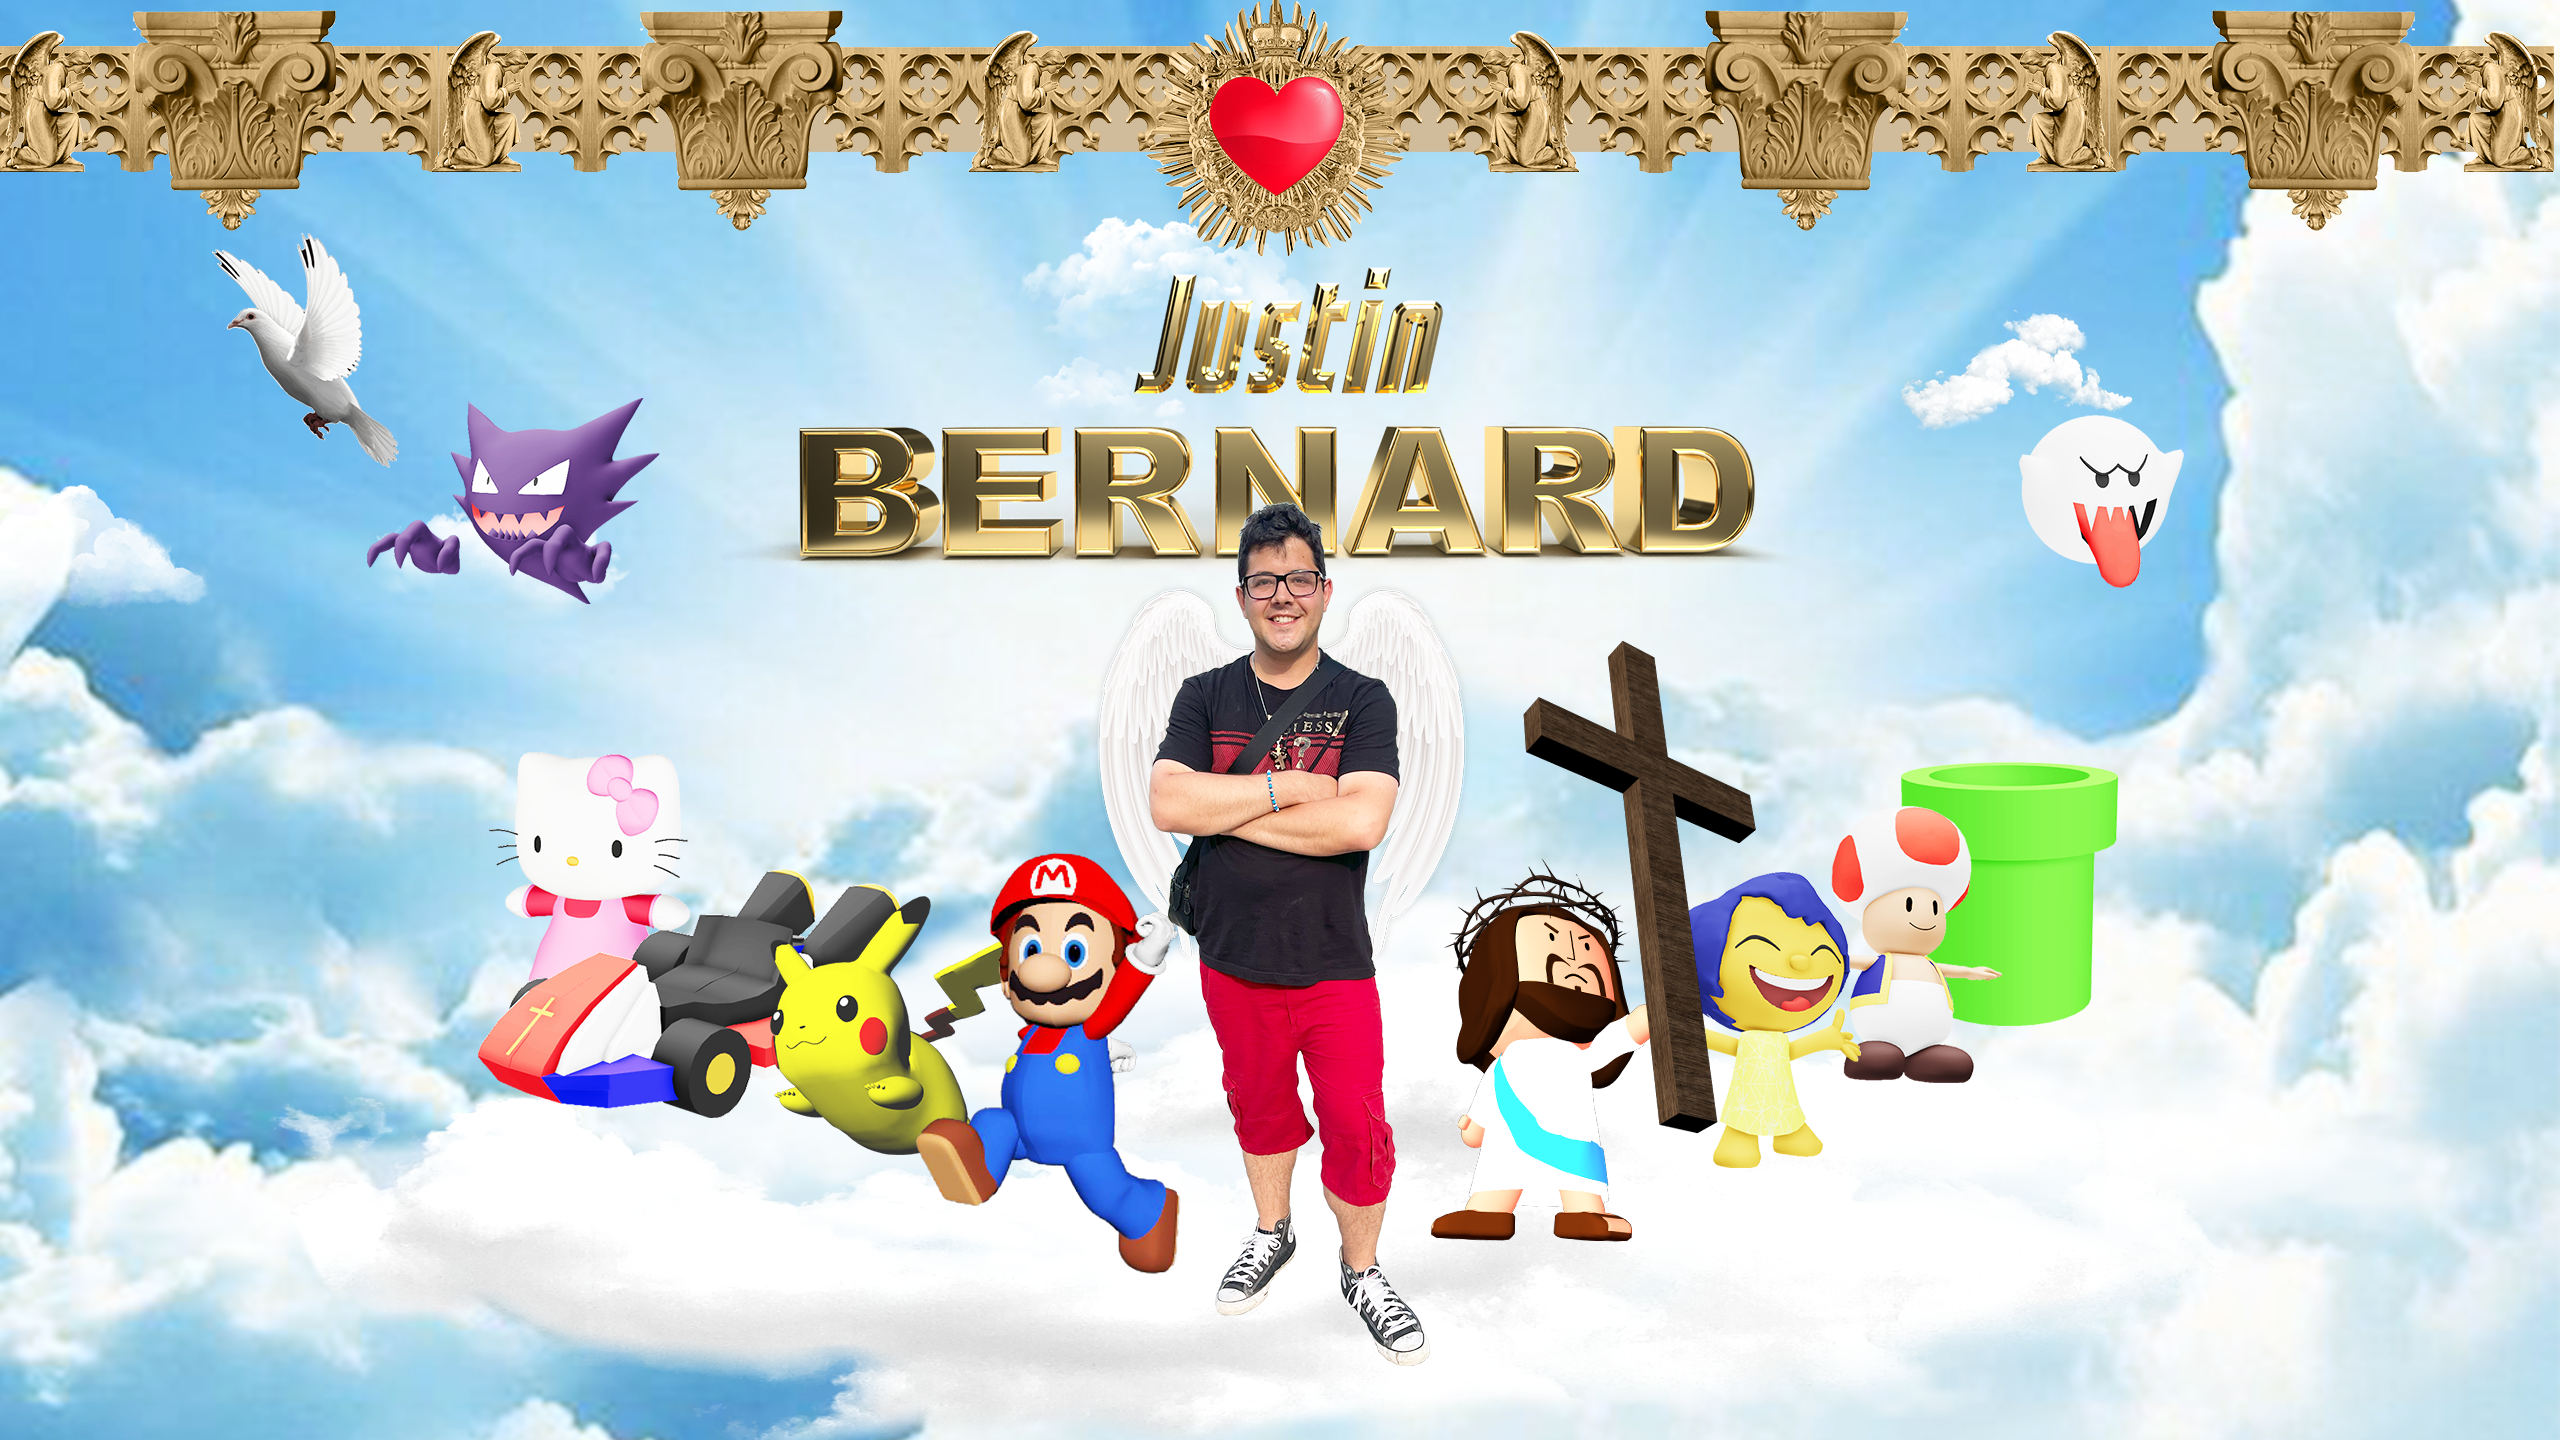
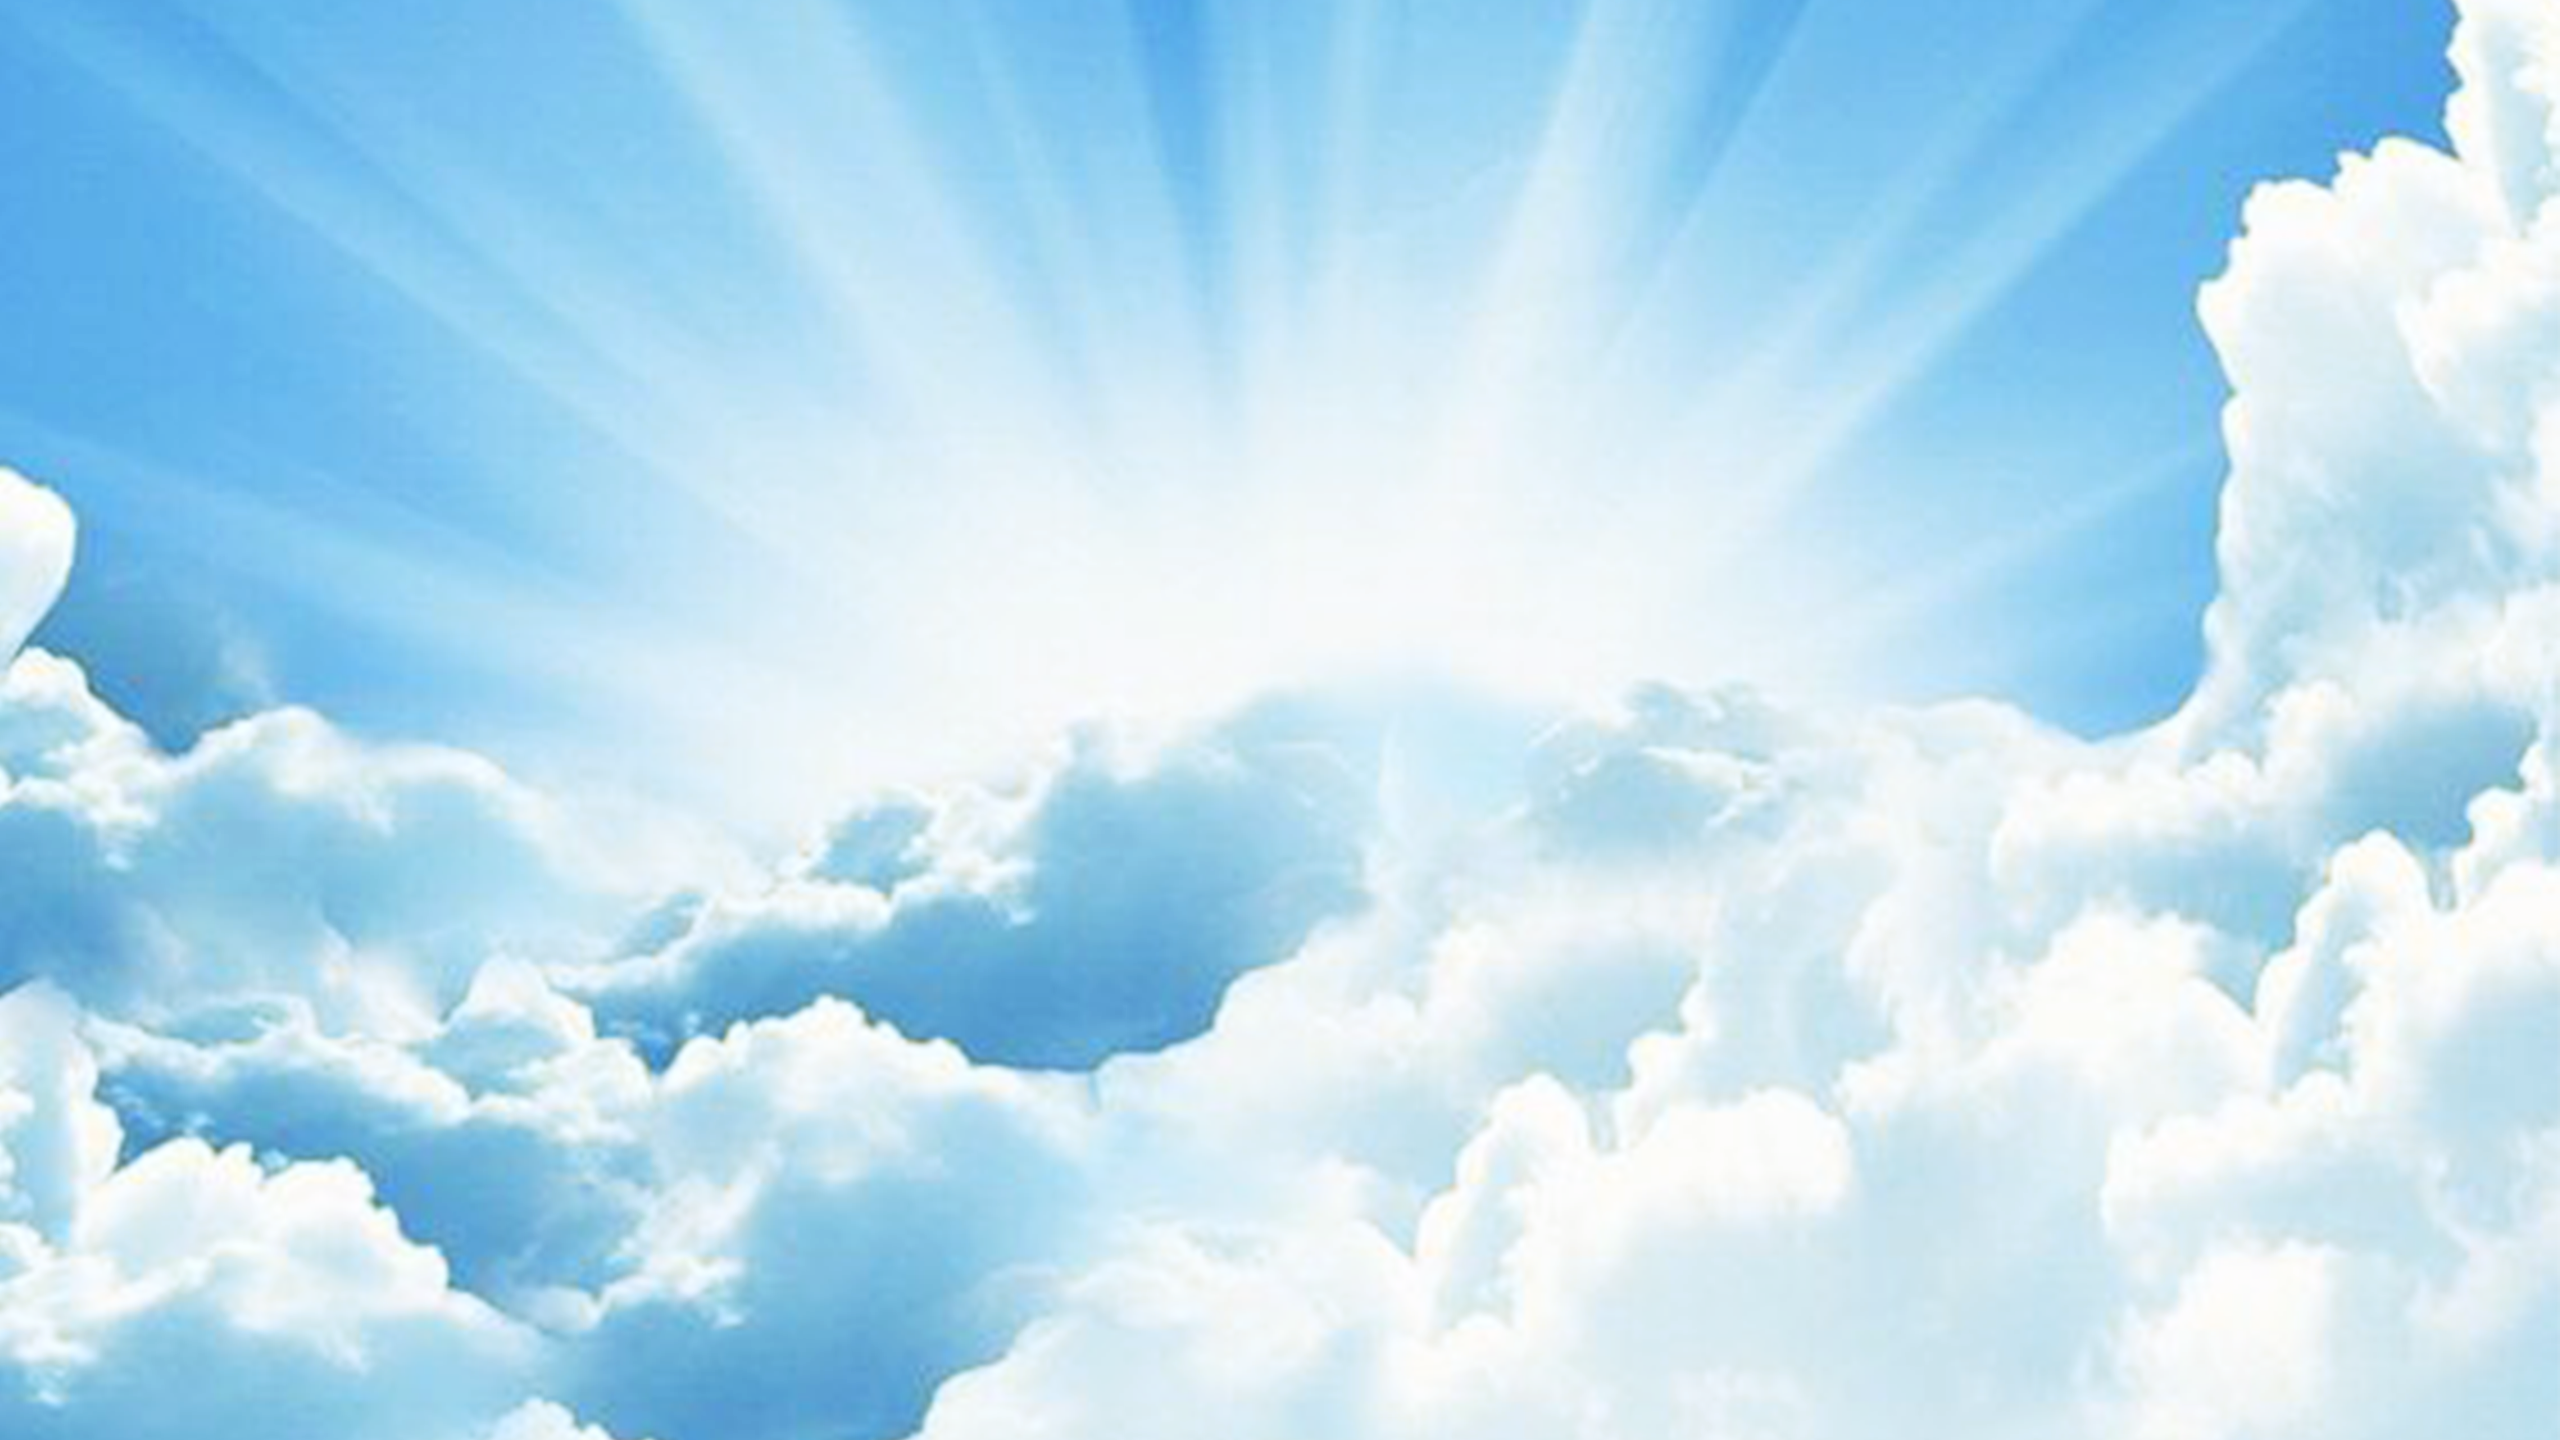
Set hero layers

diff --git a/src/components/NavBar.jsx b/src/components/NavBar.jsx
@@ -9,16 +9,6 @@ const Container = styled.div`
     right: 0;
     z-index: 2;
     transition: transform 0.3s ease, opacity 0.3s ease;
-
-    .visible {
-    transform: translateY(0);
-    opacity: 1;
-    }
-
-    .hidden {
-    transform: translateY(-100%);
-    opacity: 0;
-    }
 `
 
 const Image = styled.img`
@@ -35,7 +25,8 @@ const DarkBG = styled.div`
     height: 100%;
     background-color: rgba(0, 0, 0, 0.5);
     cursor: pointer;
-    `
+    transition: transform 0.3s ease, opacity 0.3s ease;
+`
 
 const MenuContainer = styled.div`
     position: fixed;
@@ -77,29 +68,33 @@ const MenuItems = styled.ul`
 function NavBar() {
     //FLAG
     const [menuEnabled, setMenuEnabled] = useState(false);
-
     const [prevScrollPos, setPrevScrollPos] = useState(0);
     const [visible, setVisible] = useState(true);
 
       
-      useEffect(() => {
-        window.addEventListener('scroll', handleScroll, true);
-        // Remove the event listener
-        return () => {
-            window.removeEventListener('scroll', handleScroll, true);
-        };
-    }, [menuEnabled]);
-    
-
     const handleScroll = () => {
         const currentScrollPos = window.scrollY;
-    
-        setVisible((prevScrollPos > currentScrollPos && prevScrollPos - currentScrollPos > 70) || currentScrollPos < 10);
+        // setVisible(prevScrollPos > currentScrollPos || currentScrollPos < 10); //GOOD
+        
+        if (prevScrollPos > currentScrollPos) {
+            // UP
+            setVisible(true);
+        } else {
+            // DON
+            setMenuEnabled(false);
+            setVisible(false);
+        }
 
-        setMenuEnabled(false);
-    
         setPrevScrollPos(currentScrollPos);
     };
+    
+
+    useEffect(() => {
+        window.addEventListener('scroll', handleScroll);
+        return () => {
+            window.removeEventListener('scroll', handleScroll);
+        };
+    }, [prevScrollPos]);
 
       
     const handleClick = () => {
@@ -114,9 +109,9 @@ function NavBar() {
 
     {menuEnabled && (
     <>
-        <DarkBG onClick={() => handleClick()} />
-        <MenuContainer>
-            <MenuImage src="/img/jesus-flag.png" />
+        <DarkBG onClick={() => setMenuEnabled(false)} />
+        <MenuContainer >
+            <MenuImage src="/img/Jesus-Banner.png" />
             <MenuItems>
                 <li>
                     <a href="#">Home</a>
@@ -134,6 +129,7 @@ function NavBar() {
         </MenuContainer>
     </>
     )}
+
     </>
   )
 }

diff --git a/src/components/Hero.jsx b/src/components/Hero.jsx
@@ -1,10 +1,42 @@
 import React from 'react'
+import { styled } from 'styled-components'
+
+const Container = styled.div`
+    height: 100vh;
+`
 
 function Hero() {
+
+    
   return (
-    <div>
-      Hero
-    </div>
+    <Container>
+      <img src="/img/Sky.png" className='parallax bg-sky'/>
+      <img src="/img/Dove.png" className='parallax dove'/>
+      {/* Cloud Main */}
+      <img src="/img/CloudMain-Back.png" className='parallax cloud-main-back'/>
+      <img src="/img/CloudMain-Front.png" className='parallax cloud-main-front'/>
+      {/* Cloud Backgrounds */}
+      <img src="/img/CloudBG-4.png" className='parallax cloud-bg-4'/>
+      <img src="/img/CloudBG-3.png" className='parallax cloud-bg-3'/>
+      <img src="/img/CloudBG-2.png" className='parallax cloud-bg-2'/>
+      <img src="/img/CloudBG-1.png" className='parallax cloud-bg-1'/>
+        {/* Items/Characters */}
+      <img src="/img/JesusFlag.png" className='parallax jesus-flag'/>
+      <img src="/img/Pipe.png" className='parallax pipe'/>
+      <img src="/img/Haunter.png" className='parallax haunter'/>
+      <img src="/img/Boo.png" className='parallax boo'/>
+      <img src="/img/Bernard-Text.png" className='parallax bernard-txt'/>
+      <img src="/img/Justin-Text.png" className='parallax justin-txt'/>
+      <img src="/img/HelloKitty.png" className='parallax hello-kitty'/>
+      <img src="/img/Toad.png" className='parallax toad'/>
+      <img src="/img/Kart.png" className='parallax kart'/>
+      <img src="/img/Joy.png" className='parallax joy'/>
+      <img src="/img/Pikachu.png" className='parallax pikachu'/>
+      <img src="/img/Mario.png" className='parallax mario'/>
+      <img src="/img/MiniJesus.png" className='parallax mini-jesus'/>
+      <img src="/img/Justin.png" className='parallax justin'/>
+
+    </Container>
   )
 }
 

diff --git a/src/App.css b/src/App.css
@@ -10,14 +10,14 @@ body {
   font-family: "Mulish", 'sans-serif';
 }
 
-.nav.visible {
+.nav.visible  {
   transform: translateY(0);
   opacity: 1;
   }
 
 .nav.hidden {
-transform: translateY(-100%);
-opacity: 0;
+  transform: translateY(-100%);
+  opacity: 0;
 }
 
 /* #root {

diff --git a/src/App.jsx b/src/App.jsx
@@ -12,6 +12,7 @@ import Projects from './components/Projects'
 import NavBar from './components/NavBar'
 
 const Container = styled.div`
+  position: relative;
   width: 100vw;
   min-height: 100vh;
   overflow-x: hidden;
